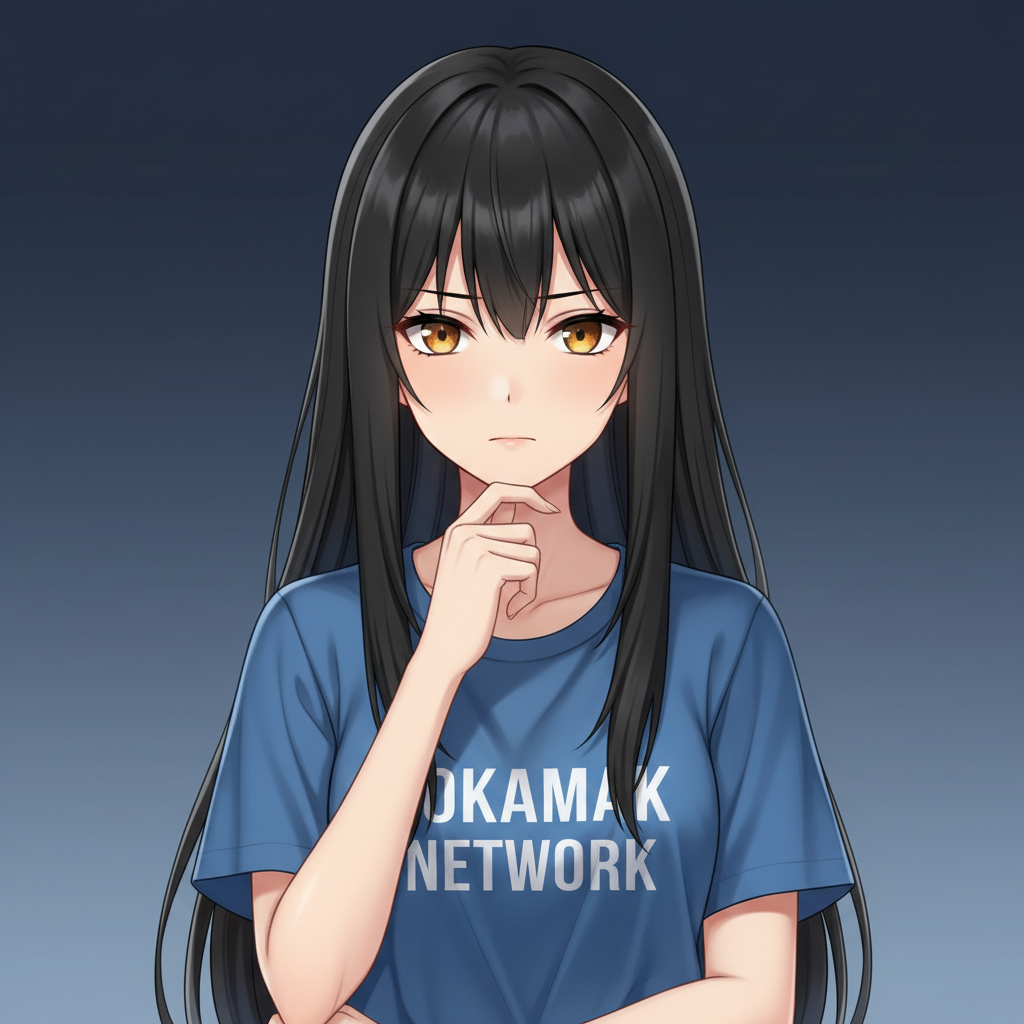
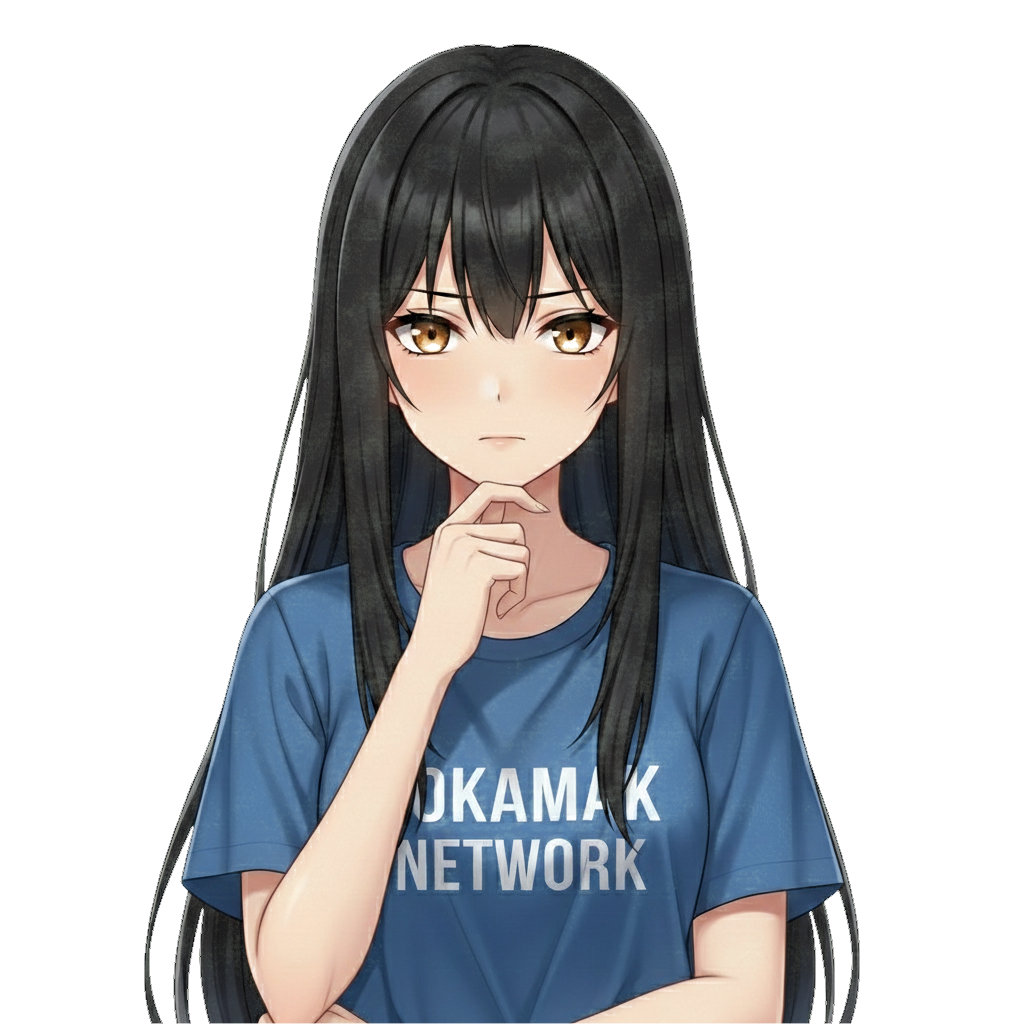
feat: improve onboarding visual novel layout and fix character transparency
- Replace character images with green-screen generated versions and
  apply chroma key + green spill removal for clean transparency
- Fix dialogue box height to 160/176px for consistent layout
- Attach character sprite directly above dialogue panel (no gap)
- Remove SparkleParticles and ConfettiEffect components
- Fix session key delegation signing with manual eth_signTypedData_v4
- Add quest-specific background images

diff --git a/src/components/onboarding/OnboardingQuest.tsx b/src/components/onboarding/OnboardingQuest.tsx
@@ -260,9 +260,9 @@ function DialogueBox({
       className="cursor-pointer select-none w-full"
       onClick={() => (done ? onNext() : skip())}
     >
-      <div className="bg-black/70 backdrop-blur-xl border-t border-white/10 rounded-t-2xl px-6 py-5 sm:px-8 sm:py-6">
+      <div className="bg-black/70 backdrop-blur-xl border-t border-white/10 rounded-t-2xl px-6 py-5 sm:px-8 sm:py-6 h-[160px] sm:h-[176px] flex flex-col">
         {/* Name plate */}
-        <div className="inline-flex items-center gap-2 mb-3 px-4 py-1.5 rounded-full bg-accent-cyan/10 border border-accent-cyan/30">
+        <div className="inline-flex items-center gap-2 mb-3 px-4 py-1.5 rounded-full bg-accent-cyan/10 border border-accent-cyan/30 self-start">
           <span className="text-accent-cyan font-bold text-sm tracking-wide">Toki</span>
           {line.mood && moodLabel && (
             <span className="text-xs text-accent-cyan/60">
@@ -270,14 +270,14 @@ function DialogueBox({
             </span>
           )}
         </div>
-        <p className="text-gray-100 text-base sm:text-lg leading-relaxed min-h-[3rem]">
+        <p className="text-gray-100 text-base sm:text-lg leading-relaxed flex-1">
           {displayed}
           {!done && (
             <span className="inline-block w-0.5 h-5 bg-accent-cyan ml-0.5 animate-pulse align-middle" />
           )}
         </p>
         {done && (
-          <div className="text-right mt-3">
+          <div className="text-right">
             <span className="text-xs text-gray-500 animate-pulse">
               {isLast ? t.onboarding.clickToContinue : t.onboarding.clickToNext} ▼
             </span>
@@ -300,125 +300,15 @@ const MOOD_GLOW: Record<Mood, string> = {
   wink: "rgba(236, 72, 153, 0.35)",
 };
 
-// ─── Sparkle Particles ───────────────────────────────────────────────
-
-function SparkleParticles({ trigger }: { trigger: number }) {
-  const [particles, setParticles] = useState<
-    { id: number; x: number; y: number; size: number; delay: number; color: string }[]
-  >([]);
-
-  useEffect(() => {
-    if (trigger === 0) return;
-    const colors = ["#22d3ee", "#f59e0b", "#60a5fa", "#a855f7", "#ec4899"];
-    const newParticles = Array.from({ length: 8 }, (_, i) => ({
-      id: Date.now() + i,
-      x: Math.random() * 100,
-      y: Math.random() * 100,
-      size: 6 + Math.random() * 8,
-      delay: i * 0.15 + Math.random() * 0.3,
-      color: colors[Math.floor(Math.random() * colors.length)],
-    }));
-    setParticles(newParticles);
-    const timer = setTimeout(() => setParticles([]), 5000);
-    return () => clearTimeout(timer);
-  }, [trigger]);
-
-  if (particles.length === 0) return null;
-
-  return (
-    <div className="absolute -inset-10 pointer-events-none overflow-visible -z-10">
-      {particles.map((p) => {
-        const edge = Math.random() > 0.5;
-        const x = edge
-          ? (Math.random() > 0.5 ? Math.random() * 15 : 85 + Math.random() * 15)
-          : p.x;
-        const y = !edge
-          ? (Math.random() > 0.5 ? Math.random() * 15 : 85 + Math.random() * 15)
-          : p.y;
-        return (
-          <div
-            key={p.id}
-            className="absolute animate-sparkle"
-            style={{
-              left: `${x}%`,
-              top: `${y}%`,
-              width: p.size,
-              height: p.size,
-              backgroundColor: p.color,
-              borderRadius: "50%",
-              animationDelay: `${p.delay}s`,
-              boxShadow: `0 0 ${p.size * 2}px ${p.color}`,
-            }}
-          />
-        );
-      })}
-    </div>
-  );
-}
-
-// ─── Confetti Effect ─────────────────────────────────────────────────
-
-function ConfettiEffect({ active }: { active: boolean }) {
-  const [pieces, setPieces] = useState<
-    { id: number; x: number; color: string; delay: number; rotate: number }[]
-  >([]);
-
-  useEffect(() => {
-    if (!active) {
-      setPieces([]);
-      return;
-    }
-    const colors = ["#22d3ee", "#f59e0b", "#60a5fa", "#a855f7", "#ec4899", "#4ade80"];
-    const newPieces = Array.from({ length: 24 }, (_, i) => ({
-      id: Date.now() + i,
-      x: 10 + Math.random() * 80,
-      color: colors[Math.floor(Math.random() * colors.length)],
-      delay: i * 0.1 + Math.random() * 0.5,
-      rotate: Math.random() * 360,
-    }));
-    setPieces(newPieces);
-    const timer = setTimeout(() => setPieces([]), 6000);
-    return () => clearTimeout(timer);
-  }, [active]);
-
-  if (pieces.length === 0) return null;
-
-  return (
-    <div className="absolute -inset-12 pointer-events-none overflow-visible -z-10">
-      {pieces.map((p) => {
-        const x = Math.random() > 0.5
-          ? Math.random() * 20
-          : 80 + Math.random() * 20;
-        return (
-          <div
-            key={p.id}
-            className="absolute animate-confetti-fall"
-            style={{
-              left: `${x}%`,
-              top: "-8px",
-              width: "8px",
-              height: "8px",
-              backgroundColor: p.color,
-              borderRadius: Math.random() > 0.5 ? "50%" : "2px",
-              animationDelay: `${p.delay}s`,
-              transform: `rotate(${p.rotate}deg)`,
-            }}
-          />
-        );
-      })}
-    </div>
-  );
-}
-
 // ─── Background Image per Quest ───────────────────────────────────────
 
 const QUEST_BACKGROUNDS: Record<string, string> = {
-  "install-metamask": "/vn-bg-default.png",
-  "create-wallet": "/vn-bg-default.png",
-  "connect-toki": "/vn-bg-default.png",
-  "verify-upbit": "/vn-bg-default.png",
-  "receive-ton": "/vn-bg-default.png",
-  "first-stake": "/vn-bg-default.png",
+  "install-metamask": "/backgrounds/1.png",
+  "create-wallet": "/backgrounds/2.png",
+  "connect-toki": "/backgrounds/3.png",
+  "verify-upbit": "/backgrounds/4.png",
+  "receive-ton": "/backgrounds/5.png",
+  "first-stake": "/backgrounds/6.png",
 };
 
 // ─── Character Display (Visual Novel Style) ──────────────────────────
@@ -434,15 +324,9 @@ function TokiCharacter({ mood, phase }: { mood?: Mood; phase?: Phase }) {
   const imageSrc = MOOD_IMAGES[effectiveMood];
   const [prevSrc, setPrevSrc] = useState(imageSrc);
   const [transitioning, setTransitioning] = useState(false);
-  const [sparkleTrigger, setSparkleTrigger] = useState(0);
-  const prevMoodRef = useRef<Mood>(effectiveMood);
 
   useEffect(() => {
     if (imageSrc !== prevSrc) {
-      if (imageSrc !== MOOD_IMAGES[prevMoodRef.current]) {
-        setSparkleTrigger((n) => n + 1);
-      }
-      prevMoodRef.current = effectiveMood;
       setTransitioning(true);
       const timer = setTimeout(() => {
         setPrevSrc(imageSrc);
@@ -450,24 +334,17 @@ function TokiCharacter({ mood, phase }: { mood?: Mood; phase?: Phase }) {
       }, 200);
       return () => clearTimeout(timer);
     }
-  }, [imageSrc, prevSrc, effectiveMood]);
+  }, [imageSrc, prevSrc]);
 
   const glowColor = MOOD_GLOW[effectiveMood];
-  const isBadge = phase === "badge";
 
   return (
-    <div className="absolute bottom-44 sm:bottom-52 left-1/2 -translate-x-1/2 z-10">
+    <div className="flex justify-center z-10">
       <div className="relative w-64 sm:w-80 md:w-96 lg:w-[28rem] overflow-visible">
         <div
-          className="absolute inset-0 rounded-3xl blur-3xl -z-10 animate-glow-pulse transition-colors duration-700"
+          className="absolute inset-[15%] bottom-0 rounded-full blur-3xl -z-10 animate-glow-pulse transition-colors duration-700 opacity-40"
           style={{ backgroundColor: glowColor }}
         />
-        <div
-          className="absolute -inset-4 rounded-[2rem] blur-2xl -z-20 opacity-20 transition-colors duration-700"
-          style={{ backgroundColor: glowColor }}
-        />
-        <SparkleParticles trigger={sparkleTrigger} />
-        <ConfettiEffect active={isBadge} />
         <Image
           src={transitioning ? prevSrc : imageSrc}
           alt="Toki"
@@ -726,12 +603,11 @@ export default function OnboardingQuest() {
         </div>
       </div>
 
-      {/* ── Layer 2: Character (center-bottom, above dialogue) ── */}
-      <TokiCharacter mood={currentLine?.mood} phase={phase} />
-
-      {/* ── Layer 3: Bottom dialogue / action panel ── */}
+      {/* ── Layer 2+3: Character + dialogue panel (stacked, anchored to bottom) ── */}
       <div className="absolute bottom-0 left-0 right-0 z-20">
         <div className="max-w-3xl mx-auto">
+          {/* Character sits directly above the panel */}
+          <TokiCharacter mood={currentLine?.mood} phase={phase} />
 
           {/* Connected Address (shown during connect quest success) */}
           {connectedAddr && phase === "success" && quest.id === "connect-toki" && (

diff --git a/src/hooks/useSessionKey.ts b/src/hooks/useSessionKey.ts
@@ -7,9 +7,7 @@ import {
 } from "viem/accounts";
 import {
   createPublicClient,
-  createWalletClient,
   http,
-  custom,
   type Address,
   type Hex,
   encodeFunctionData,
@@ -27,7 +25,6 @@ import {
   getDeleGatorEnvironment,
 } from "@metamask/delegation-toolkit";
 import { encodeDelegations } from "@metamask/delegation-toolkit/utils";
-import { signDelegationActions } from "@metamask/delegation-toolkit/actions";
 import { erc7710BundlerActions } from "@metamask/delegation-toolkit/experimental";
 import { CONTRACTS } from "@/constants/contracts";
 import { tonTokenAbi } from "@/lib/abi";
@@ -255,16 +252,52 @@ export function useSessionKey(
         },
       });
 
-      // Sign delegation via MetaMask (EIP-712 signTypedData)
-      const walletClient = createWalletClient({
-        chain,
-        transport: custom(provider),
-        account: userAddress,
-      }).extend(signDelegationActions());
+      // Sign delegation via raw eth_signTypedData_v4 on MetaMask provider
+      // MetaMask blocks delegation signing through the toolkit's abstraction layer,
+      // so we construct the EIP-712 typed data manually and call the provider directly.
+      const typedData = {
+        types: {
+          EIP712Domain: [
+            { name: "name", type: "string" },
+            { name: "version", type: "string" },
+            { name: "chainId", type: "uint256" },
+            { name: "verifyingContract", type: "address" },
+          ],
+          Caveat: [
+            { name: "enforcer", type: "address" },
+            { name: "terms", type: "bytes" },
+          ],
+          Delegation: [
+            { name: "delegate", type: "address" },
+            { name: "delegator", type: "address" },
+            { name: "authority", type: "bytes32" },
+            { name: "caveats", type: "Caveat[]" },
+            { name: "salt", type: "uint256" },
+          ],
+        },
+        primaryType: "Delegation" as const,
+        domain: {
+          name: "DelegationManager",
+          version: "1",
+          chainId: chain.id,
+          verifyingContract: environment.DelegationManager,
+        },
+        message: {
+          delegate: delegation.delegate,
+          delegator: delegation.delegator,
+          authority: delegation.authority,
+          caveats: delegation.caveats.map((c: { enforcer: Hex; terms: Hex }) => ({
+            enforcer: c.enforcer,
+            terms: c.terms,
+          })),
+          salt: delegation.salt === "0x" ? "0" : BigInt(delegation.salt).toString(),
+        },
+      };
 
-      const signature = await walletClient.signDelegation({
-        delegation,
-        delegationManager: environment.DelegationManager,
+      // eslint-disable-next-line @typescript-eslint/no-explicit-any
+      const signature = await (provider as any).request({
+        method: "eth_signTypedData_v4",
+        params: [userAddress, JSON.stringify(typedData)],
       });
 
       const signedDelegation = { ...delegation, signature };
